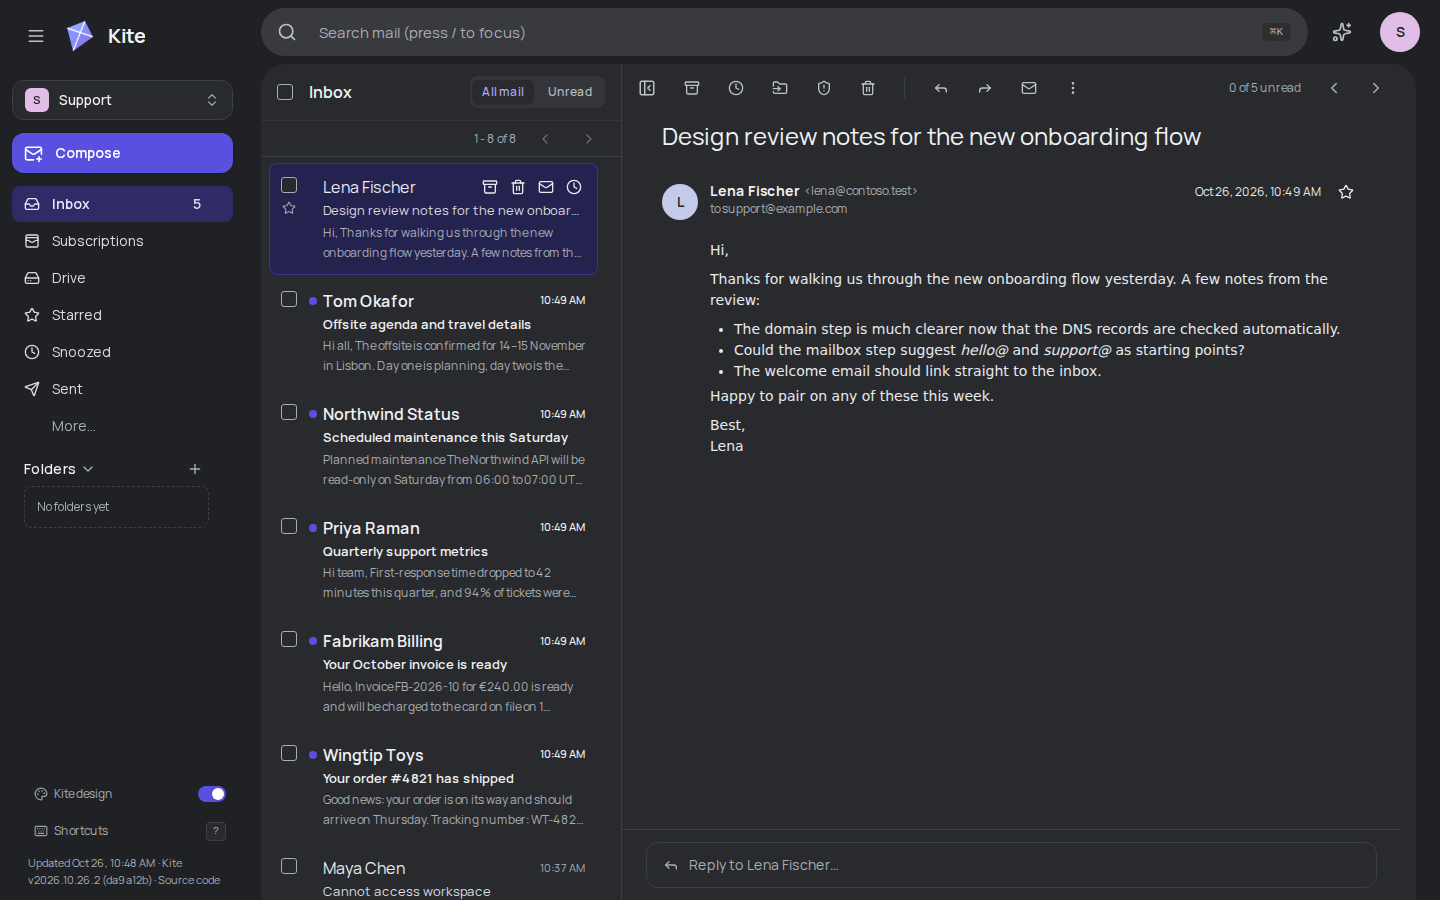
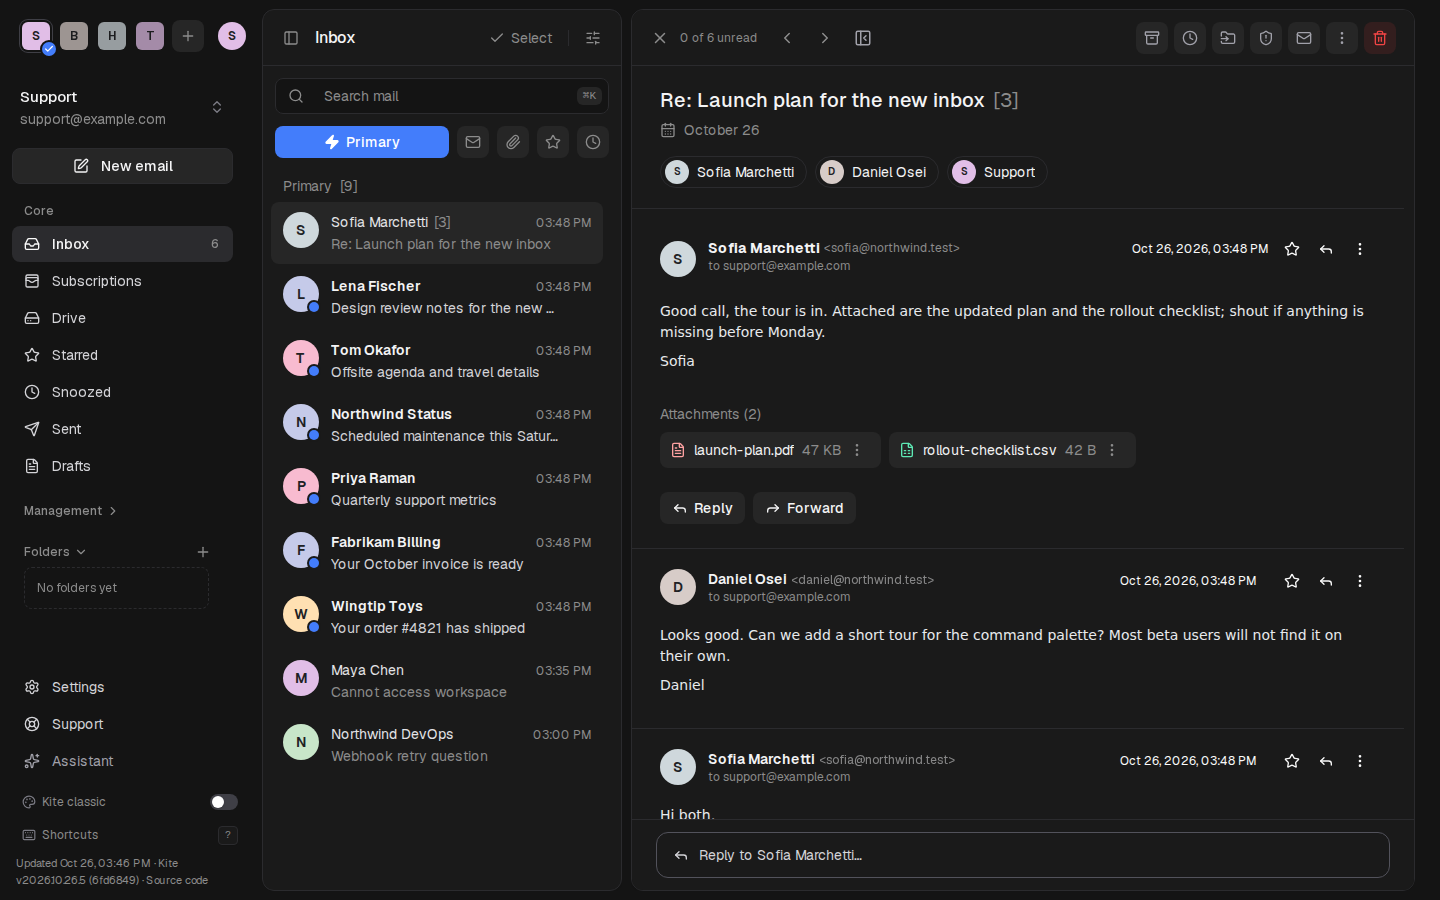
wip(screenshots): inbox light and dark with a thread open, phone list dark

diff --git a/scripts/screenshots/readme.capture.ts b/scripts/screenshots/readme.capture.ts
@@ -47,10 +47,18 @@ async function openThread(page: Page) {
 	await page.goto("/inbox");
 	await openMessage(page, `Re: ${THREAD[0]!.subject}`);
 	await expect(page.getByRole("list", { name: "Participants" })).toBeVisible();
+	await page.waitForLoadState("networkidle");
 	const earlier = page.getByRole("region", { name: "Earlier messages in this conversation" });
-	for (const folded of await earlier.locator('button[aria-expanded="false"]').all()) await folded.click();
-	await expect(earlier.locator('button[aria-expanded="false"]')).toHaveCount(0);
-	await expect(page.locator("iframe")).toHaveCount(THREAD.length);
+	// The thread can re-render once its read state settles, folding the cards again; unfold until every body shows.
+	await expect(async () => {
+		await page.keyboard.press("Escape");
+		// Each card's own toggle; its "More actions" menu trigger also reports aria-expanded but carries a label.
+		const folded = earlier.locator('button[aria-expanded="false"]:not([aria-label])');
+		while ((await folded.count()) > 0) await folded.first().click();
+		await expect(page.locator("iframe")).toHaveCount(THREAD.length, { timeout: 3000 });
+	}).toPass({ timeout: 60_000 });
+	// Off the list, so no row shows its hover actions.
+	await page.mouse.move(1000, 860);
 }
 
 async function capture(page: Page, name: string) {
